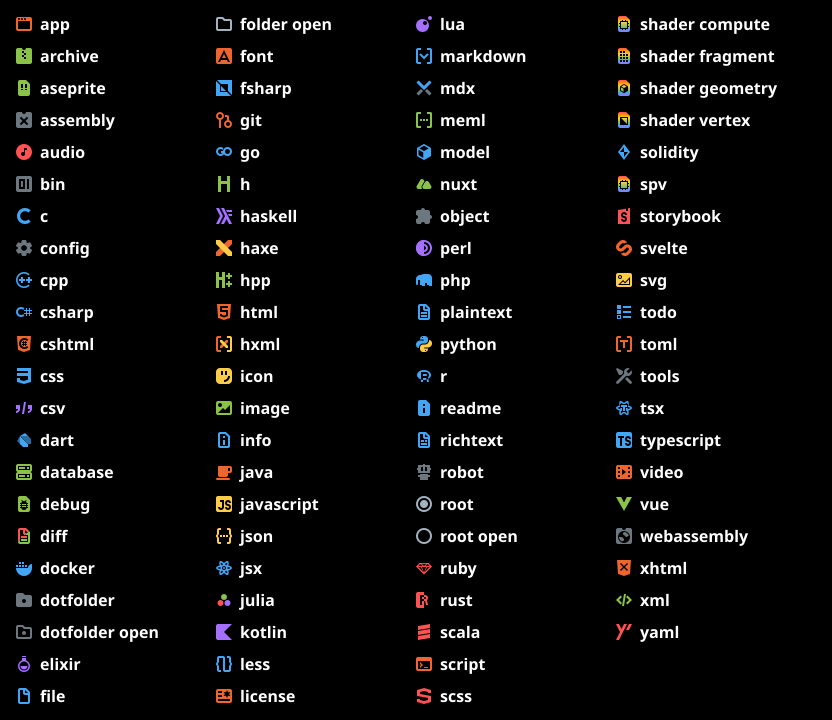
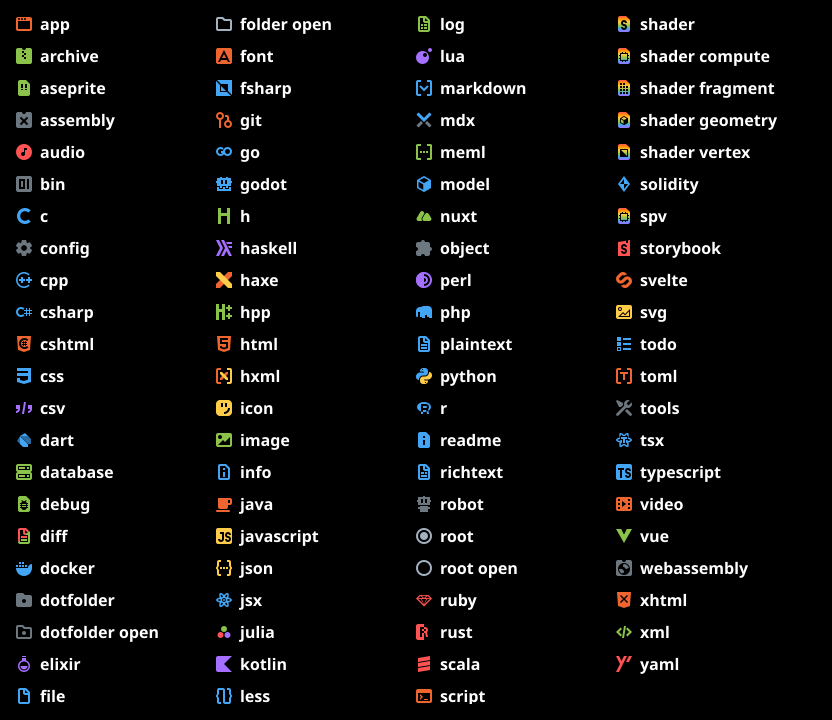
[1.2.3]

diff --git a/build/icons/fileIcons.ts b/build/icons/fileIcons.ts
@@ -178,10 +178,16 @@ export const fileIcons: FileIconAssignments = {
 	config: {
 		exts: [
 			'ini',
+			'tres',
+			'tscn',
+			'import',
+			'gdns',
+			'gdnlib',
 		],
 		langs: [
 			'ini',
 			'properties',
+			'gdresource',
 		],
 		names: [
 			'.editorconfig',
@@ -615,6 +621,15 @@ export const fileIcons: FileIconAssignments = {
 			'solidity',
 		]
 	},
+	godot: {
+		exts: [
+			'gd',
+			'godot',
+		],
+		langs: [
+			'gdscript',
+		]
+	},
 	elixir: {
 		exts: [
 			'ex',
@@ -722,12 +737,14 @@ export const fileIcons: FileIconAssignments = {
 			'tese',
 			'cg',
 			'sf',
+			'gdshader',
 		],
 		langs: [
 			'glsl',
 			'cg',
 			'hlsl',
 			'shaderlab',
+			'gdshader',
 		]
 	},
 	shader_vertex: {

diff --git a/CHANGELOG.md b/CHANGELOG.md
@@ -1,5 +1,9 @@
 # Change Log
 
+## [1.2.3]
+- Added godot icon
+- Assigned icons for godot related files
+
 ## [1.2.2]
 - Added monochrome theme
 - Added solidarity
